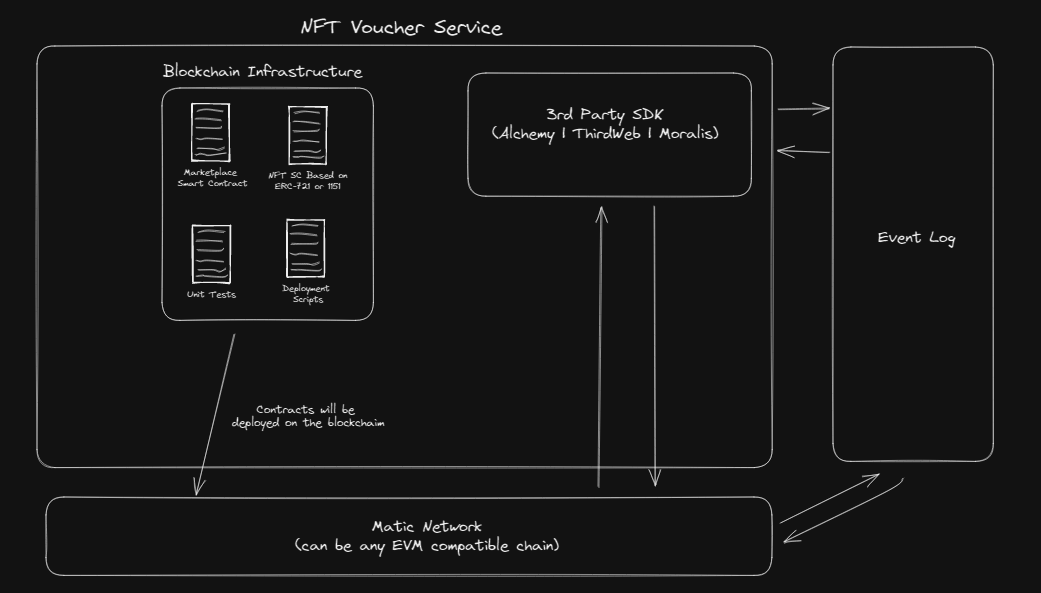
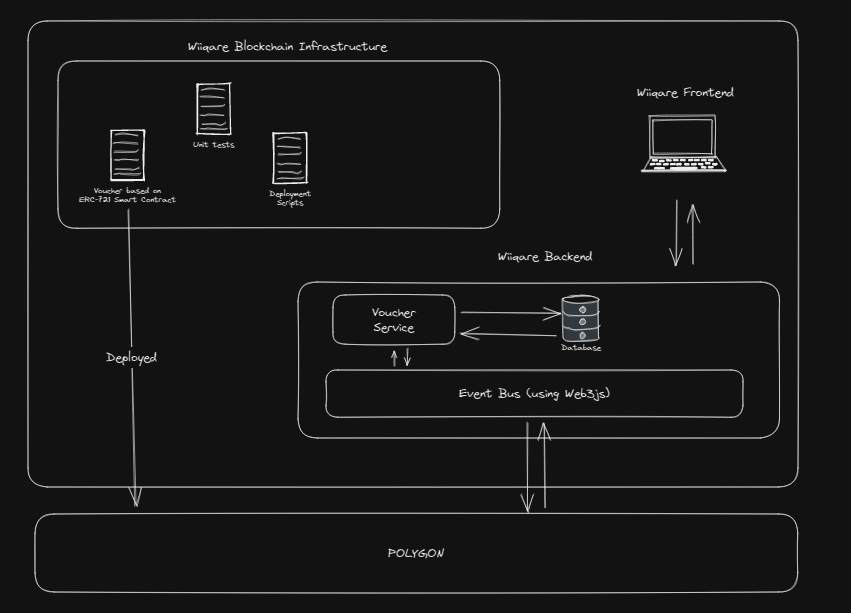
#1 contributing guidelines, updated architecture diagram

Changed region(s): [[0.0306, 0.0304, 0.9471, 0.9713], [0.4277, 0.1518, 0.7027, 0.3035], [0.1222, 0.5767, 0.1833, 0.6071]]

diff --git a/README.md b/README.md
@@ -16,4 +16,12 @@ On root run:
 2. To start a local node: `npm run dev`
 3. To compile the smart contracts: `npm run compile`
 4. To execute the unit tests: `npm run test`
-5. To deploy a smart contract `npx hardhat run --network localhost scripts/deployWiiQareVoucherV1.ts` (change the network option for deploying on testnet to mumbai or mainnet polygon)
+5. To deploy the voucher smart contract: `npx hardhat run --network localhost scripts/deployWiiQareVoucherV1.ts` (change the network option for deploying on testnet to mumbai or mainnet polygon)
+
+## FAQ
+
+1. Q: Why the voucher smart contract is not upgradable.
+   A: We want to provide trust to our users.
+2. Q: Why isn't the solution fully decentralize.
+   A: We had to make some compromises until users will know how to properly use a wallet. Because we are dealing with providing methods for the users to pay
+   for their healthcare services, ease of use and speed were our top concerns and we chose to put decentralization on the second place.

diff --git a/CONTRIBUTING.md b/CONTRIBUTING.md
@@ -1,0 +1,17 @@
+# Contributing Guidelines for Wiiqare's smart contract
+We would greatly appreciate your contributions, ideas to improve or critical thoughts in the form of:
+
+- Reporting bugs
+- Discussing the current state of the code
+- Submitting a fix
+- Proposing new features
+- Raising and discussing concerns.
+
+on Discord or via the Github issues.
+
+## We Develop with Github
+We use github to host code, to track issues and feature requests, as well as accept pull requests.
+
+## Want to add some code?
+We use [Gitflow](https://www.atlassian.com/git/tutorials/comparing-workflows/gitflow-workflow) for our code contribution. New branches should have
+the feature/ or hotfix/ prefix, the issue number and title, for example: feature/smartcontract-code-coverage-#1
